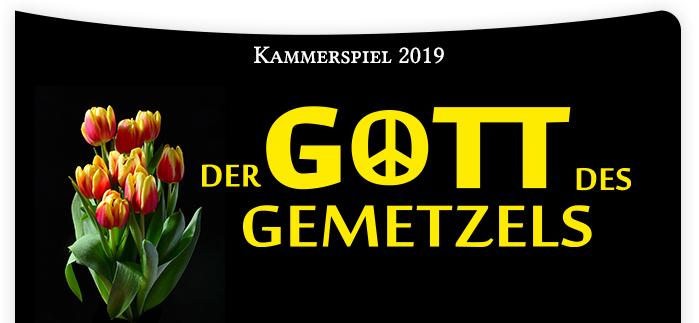
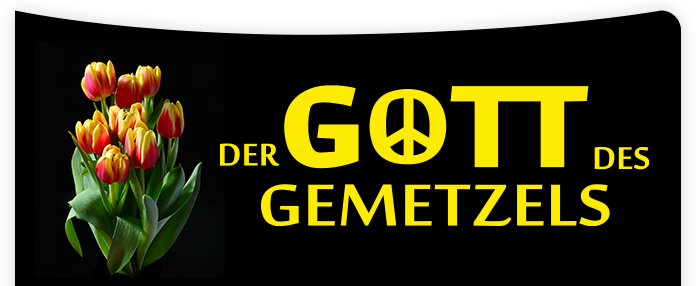
add separate templates for new event

diff --git a/app/assets/stylesheets/gemetzel.scss b/app/assets/stylesheets/gemetzel.scss
@@ -6,7 +6,7 @@ $highlightColor: #fff102;
 #content {
   > .top {
     background: url(asset_path("theater/gemetzel/content_top.png")) no-repeat;
-    height: 323px;
+    height: 286px;
   }
 
   > .content {

diff --git a/app/controllers/static_controller.rb b/app/controllers/static_controller.rb
@@ -3,7 +3,7 @@ class StaticController < ApplicationController
 
   def index
     @alert_file = Rails.root.join('public', 'uploads', 'index_alert.json')
-    @events = Ticketing::Event.where(identifier: %i[gemetzel])
+    @events = Ticketing::Event.where(identifier: %i[gemetzel_cochem])
   end
 
   private
